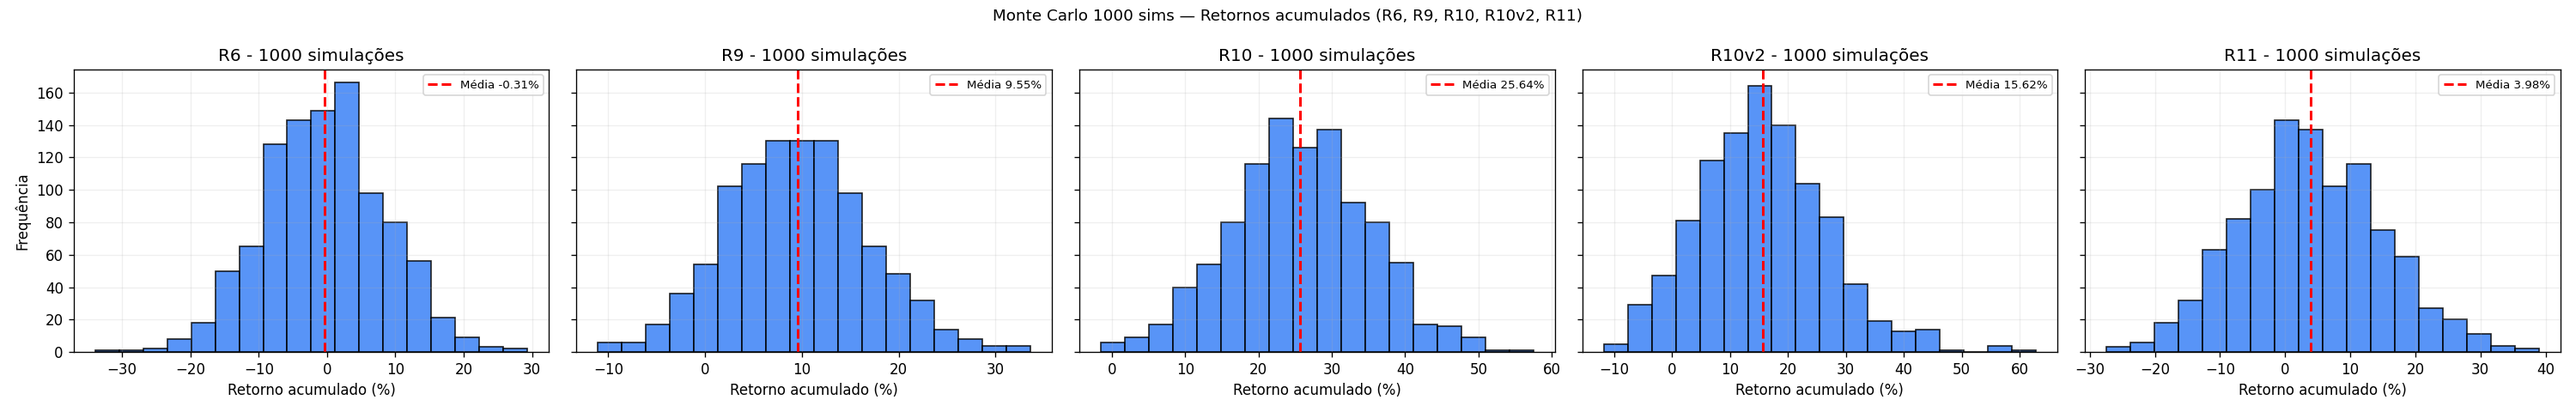
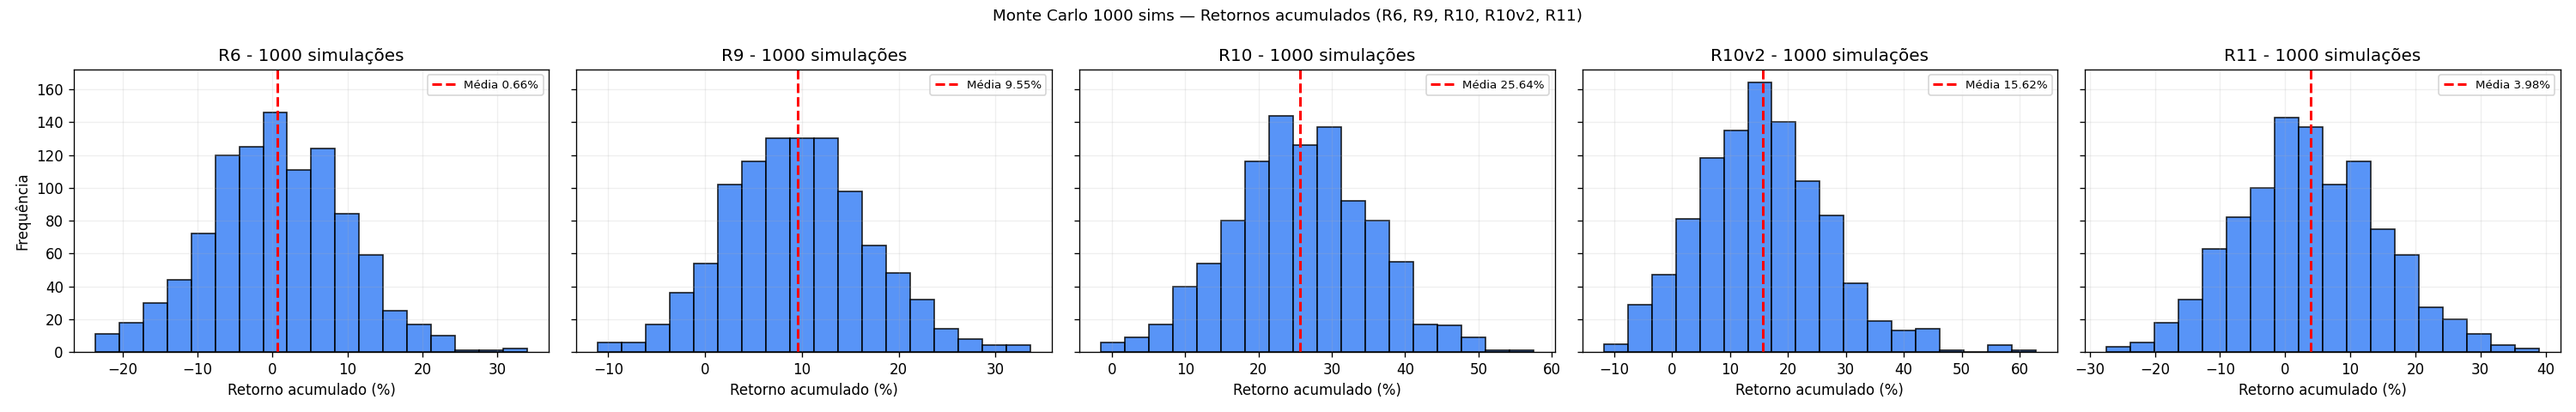
fix(phase2): corrigir R6 — alinhar indicadores e parâmetros com Fase 1
Discrepâncias encontradas e corrigidas:
1. RSI: EMA de Wilder (ta.RSIIndicator) → SMA rolling (igual à Fase 1)
2. ATR: EMA de Wilder (ta.AverageTrueRange) → SMA rolling (igual à Fase 1)
3. MACD: adjust=True (ta.MACD) → ewm(adjust=False) (igual à Fase 1)
4. rsi_thresh: 40 (config.py antigo) → 55 (parâmetro otimizado)
5. rsi_window: 5 (config.py antigo) → 2 (parâmetro otimizado)
6. target_atr: ausente → 3.5 (take profit restaurado da Fase 1)
7. Parâmetros explícitos em run_backtest_trades (não mais via config.py)

Resultado: win rate 33.5% → 41.9%, net P&L -R$37 → +R$36, alpha -3.3pp → -2.5pp

diff --git a/roboMamhedgeR6.py b/roboMamhedgeR6.py
@@ -1,90 +1,134 @@
 """
-R6 (Professional): EMA4 + RSI Window + MACD (+ BB opcional) + Stop ATR.
-ALINHADO 1:1 COM PADRÃO PROFISSIONAL (WIN 0.20).
-"""
-import pandas as pd
-import numpy as np
-from ta.momentum import RSIIndicator
-from ta.trend import EMAIndicator, MACD
-from ta.volatility import BollingerBands, AverageTrueRange
+R6 (Phase 2 — Professional):
+Lógica idêntica ao R6_v2 (Fase 1) com os parâmetros otimizados:
+  - EMA4 subindo (momentum direcional)
+  - RSI > rsi_thresh em pelo menos rsi_window barras recentes (momentum de força)
+  - MACD Hist > 0 como confirmação de tendência (opcional)
+  - Stop loss: stop_atr × ATR
+  - Take profit: target_atr × ATR (saída de ganho rápido)
+  - Saída adicional: pico de RSI (sinal de exaustão)
+  - Saída intradiária: fim de dia ou fora de horário
 
-from config import (
-    RSI_PERIOD, RSI_BULLISH, RSI_BULLISH_WINDOW,
-    EMA_FAST, MACD_FAST, MACD_SLOW, MACD_SIGNAL,
-    BB_PERIOD, BB_STD, BB_USE, BB_ENTRY,
-    ATR_PERIOD, STOP_ATR_MULT,
-)
+Parâmetros padrão = valores otimizados pela Fase 1 (μ/σ² via Monte Carlo 1000 sims):
+  stop_atr=2.0, target_atr=3.5, rsi_thresh=55, rsi_window=2, use_macd_filter=True
+"""
+from __future__ import annotations
+
+import numpy as np
+import pandas as pd
+from ta.trend import EMAIndicator
+
 from market_time import converter_para_brt, dentro_horario_operacao
 from b3_costs_phase2 import TradePoints, default_b3_cost_model, trade_net_pnl_brl
 
 DEFAULT_QUANTITY = 1
 
 
+def _sma_macd_hist(close: pd.Series, fast: int = 12, slow: int = 26, signal: int = 9) -> pd.Series:
+    """MACD histogram com ewm(adjust=False) — idêntico ao cálculo da Fase 1."""
+    exp1 = close.ewm(span=fast, adjust=False).mean()
+    exp2 = close.ewm(span=slow, adjust=False).mean()
+    macd_line = exp1 - exp2
+    signal_line = macd_line.ewm(span=signal, adjust=False).mean()
+    return macd_line - signal_line
+
+
+def _sma_atr(df: pd.DataFrame, period: int = 14) -> pd.Series:
+    """ATR por SMA do True Range — idêntico ao cálculo da Fase 1."""
+    tr = np.maximum(
+        df["high"] - df["low"],
+        np.maximum(
+            (df["high"] - df["close"].shift()).abs(),
+            (df["low"] - df["close"].shift()).abs(),
+        ),
+    )
+    return tr.rolling(period).mean()
+
+
+def _sma_rsi(close: pd.Series, period: int = 14) -> pd.Series:
+    """RSI calculado com SMA (rolling mean) — idêntico ao cálculo da Fase 1."""
+    delta = close.diff()
+    gain = delta.where(delta > 0, 0.0).rolling(period).mean()
+    loss = (-delta.where(delta < 0, 0.0)).rolling(period).mean()
+    rs = gain / loss.replace(0, 1e-10)
+    return 100.0 - (100.0 / (1.0 + rs))
+
+
 def run_backtest_trades(
-    csv_path="fase1_antigravity/WIN_5min.csv",
-    stop_atr=STOP_ATR_MULT,
-    min_atr=1e-9,
-    use_macd_filter=True,
+    csv_path: str = "fase1_antigravity/WIN_5min.csv",
+    stop_atr: float = 2.0,
+    target_atr: float = 3.5,
+    rsi_thresh: int = 55,
+    rsi_window: int = 2,
+    use_macd_filter: bool = True,
     quantity: int = DEFAULT_QUANTITY,
+    min_atr: float = 1e-9,
     with_timestamps: bool = False,
 ):
-    """Retorna lista de trades com entry/exit (em pontos) para custos realistas."""
+    """Retorna lista de TradePoints (ou dicts com timestamps) para uso direto no comparativo."""
     df = pd.read_csv(csv_path, index_col=0, parse_dates=True)
     if isinstance(df.columns, pd.MultiIndex):
         df.columns = df.columns.get_level_values(0)
     df.columns = df.columns.str.lower()
     df = converter_para_brt(df)
+    df.sort_index(inplace=True)
 
-    df['rsi'] = RSIIndicator(df['close'], window=RSI_PERIOD).rsi()
-    df['ema4'] = EMAIndicator(df['close'], window=EMA_FAST).ema_indicator()
+    df["rsi"] = _sma_rsi(df["close"], period=14)              # SMA — alinhado com Fase 1
+    df["ema4"] = EMAIndicator(df["close"], window=4).ema_indicator()
+    df["macd_hist"] = _sma_macd_hist(df["close"])             # ewm(adjust=False) — alinhado com Fase 1
+    df["atr"] = _sma_atr(df, period=14)                       # SMA — alinhado com Fase 1
 
-    macd = MACD(df['close'], window_slow=MACD_SLOW, window_fast=MACD_FAST, window_sign=MACD_SIGNAL)
-    df['macd_hist'] = macd.macd_diff()
-
-    bb = BollingerBands(df['close'], window=BB_PERIOD, window_dev=BB_STD)
-    df['bb_low'] = bb.bollinger_lband()
-    df['bb_mid'] = bb.bollinger_mavg()
-
-    df['atr'] = AverageTrueRange(df['high'], df['low'], df['close'], window=ATR_PERIOD).average_true_range()
-    df['rsi_peak_max'] = (df['rsi'].shift(1) > df['rsi'].shift(2)) & (df['rsi'].shift(1) > df['rsi'])
-    df['rsi_bullish_window'] = (df['rsi'] > RSI_BULLISH).rolling(window=RSI_BULLISH_WINDOW).max()
+    df["rsi_peak_max"] = (df["rsi"].shift(1) > df["rsi"].shift(2)) & (df["rsi"].shift(1) > df["rsi"])
+    df["rsi_bullish_window"] = (df["rsi"] > rsi_thresh).rolling(window=rsi_window).max()
 
     position = 0
     entry_price = 0.0
     entry_ts = None
     stop_loss = 0.0
+    take_profit = 0.0
     entry_day = None
     trades: list[TradePoints] = []
     trades_ts: list[dict] = []
 
     for i in range(2, len(df)):
         ts = df.index[i]
+        atr_val = float(df["atr"].iloc[i])
+        if pd.isna(atr_val) or atr_val <= min_atr:
+            continue
 
         if position == 1:
-            # Fechamento por troca de dia ou fora da sessão
+            # Saída por troca de dia ou fora de horário
             if ts.date() != entry_day or not dentro_horario_operacao(ts):
-                exit_price = float(df['close'].iloc[i])
-                t = TradePoints(entry_price_points=float(entry_price), exit_price_points=exit_price, quantity=quantity)
+                exit_price = float(df["close"].iloc[i])
+                t = TradePoints(float(entry_price), exit_price, quantity)
                 trades.append(t)
                 if with_timestamps and entry_ts is not None:
                     trades_ts.append({"trade": t, "entry_time": entry_ts, "exit_time": ts})
                 position = 0
                 continue
 
-            # Check Stop Loss
-            if df['low'].iloc[i] <= stop_loss:
-                exit_price = float(stop_loss)
-                t = TradePoints(entry_price_points=float(entry_price), exit_price_points=exit_price, quantity=quantity)
+            # Saída por stop loss
+            if df["low"].iloc[i] <= stop_loss:
+                t = TradePoints(float(entry_price), float(stop_loss), quantity)
                 trades.append(t)
                 if with_timestamps and entry_ts is not None:
                     trades_ts.append({"trade": t, "entry_time": entry_ts, "exit_time": ts})
                 position = 0
                 continue
 
-            # RSI Peak Exit
-            if bool(df['rsi_peak_max'].iloc[i]):
-                exit_price = float(df['close'].iloc[i])
-                t = TradePoints(entry_price_points=float(entry_price), exit_price_points=exit_price, quantity=quantity)
+            # Saída por take profit
+            if df["high"].iloc[i] >= take_profit:
+                t = TradePoints(float(entry_price), float(take_profit), quantity)
+                trades.append(t)
+                if with_timestamps and entry_ts is not None:
+                    trades_ts.append({"trade": t, "entry_time": entry_ts, "exit_time": ts})
+                position = 0
+                continue
+
+            # Saída por pico de RSI (exaustão do momentum)
+            if bool(df["rsi_peak_max"].iloc[i]):
+                exit_price = float(df["close"].iloc[i])
+                t = TradePoints(float(entry_price), exit_price, quantity)
                 trades.append(t)
                 if with_timestamps and entry_ts is not None:
                     trades_ts.append({"trade": t, "entry_time": entry_ts, "exit_time": ts})
@@ -95,35 +139,25 @@ def run_backtest_trades(
             if not dentro_horario_operacao(ts):
                 continue
 
-            rsi_win = df['rsi_bullish_window'].iloc[i]
-            atr_val = df['atr'].iloc[i]
-            close_val = df['close'].iloc[i]
-            bb_low_val = df['bb_low'].iloc[i]
-            bb_mid_val = df['bb_mid'].iloc[i]
-            macd_val = df['macd_hist'].iloc[i]
-
-            if pd.isna(rsi_win) or pd.isna(atr_val) or atr_val <= min_atr:
+            rsi_win = df["rsi_bullish_window"].iloc[i]
+            macd_val = df["macd_hist"].iloc[i]
+            if pd.isna(rsi_win) or pd.isna(macd_val):
                 continue
 
-            bb_ok = True
-            if BB_USE:
-                ref = bb_mid_val if BB_ENTRY == 'mid' else bb_low_val
-                if not pd.isna(ref):
-                    bb_ok = close_val <= ref
+            ema4_up = df["ema4"].iloc[i] > df["ema4"].iloc[i - 1]
+            macd_ok = (not use_macd_filter) or macd_val > 0
 
-            ema4_up = df['ema4'].iloc[i] > df['ema4'].iloc[i - 1]
-            macd_ok = (not use_macd_filter) or pd.isna(macd_val) or macd_val > 0
-
-            if bool(rsi_win) and ema4_up and macd_ok and bb_ok:
-                entry_price = float(close_val)
+            if bool(rsi_win) and ema4_up and macd_ok:
+                entry_price = float(df["close"].iloc[i])
                 entry_ts = ts
-                stop_loss = float(entry_price - stop_atr * atr_val)
+                stop_loss = entry_price - stop_atr * atr_val
+                take_profit = entry_price + target_atr * atr_val
                 entry_day = ts.date()
                 position = 1
 
     if position == 1:
-        exit_price = float(df['close'].iloc[-1])
-        t = TradePoints(entry_price_points=float(entry_price), exit_price_points=exit_price, quantity=quantity)
+        exit_price = float(df["close"].iloc[-1])
+        t = TradePoints(float(entry_price), exit_price, quantity)
         trades.append(t)
         if with_timestamps and entry_ts is not None:
             trades_ts.append({"trade": t, "entry_time": entry_ts, "exit_time": df.index[-1]})
@@ -132,18 +166,24 @@ def run_backtest_trades(
 
 
 def run_backtest(
-    csv_path="fase1_antigravity/WIN_5min.csv",
-    stop_atr=STOP_ATR_MULT,
-    min_atr=1e-9,
-    use_macd_filter=True,
+    csv_path: str = "fase1_antigravity/WIN_5min.csv",
+    stop_atr: float = 2.0,
+    target_atr: float = 3.5,
+    rsi_thresh: int = 55,
+    rsi_window: int = 2,
+    use_macd_filter: bool = True,
+    min_atr: float = 1e-9,
 ):
-    # Mantém compatibilidade: retorna P&L em pontos (sem custos).
+    """Compatibilidade: retorna P&L bruto em pontos (sem custos)."""
     trades = run_backtest_trades(
         csv_path=csv_path,
         stop_atr=stop_atr,
-        min_atr=min_atr,
+        target_atr=target_atr,
+        rsi_thresh=rsi_thresh,
+        rsi_window=rsi_window,
         use_macd_filter=use_macd_filter,
         quantity=DEFAULT_QUANTITY,
+        min_atr=min_atr,
     )
     pnl_pts = np.array([(t.exit_price_points - t.entry_price_points) * t.quantity for t in trades], dtype=float)
     return pnl_pts if len(pnl_pts) else np.array([])
@@ -156,9 +196,9 @@ if __name__ == "__main__":
     else:
         cost_model = default_b3_cost_model()
         trades_r = np.array([trade_net_pnl_brl(t, cost_model) for t in trades], dtype=float)
-        win_rate = float((trades_r > 0).mean())
+        wr = float((trades_r > 0).mean())
         print(
             f"[R6 Pro] Trades: {len(trades_r)} ({DEFAULT_QUANTITY} contratos) | "
-            f"Win: {win_rate*100:.1f}% | E[P&L]: R$ {trades_r.mean():.2f}/trade | "
+            f"Win: {wr*100:.1f}% | E[P&L]: R$ {trades_r.mean():.2f}/trade | "
             f"Total: R$ {trades_r.sum():.2f}"
         )
